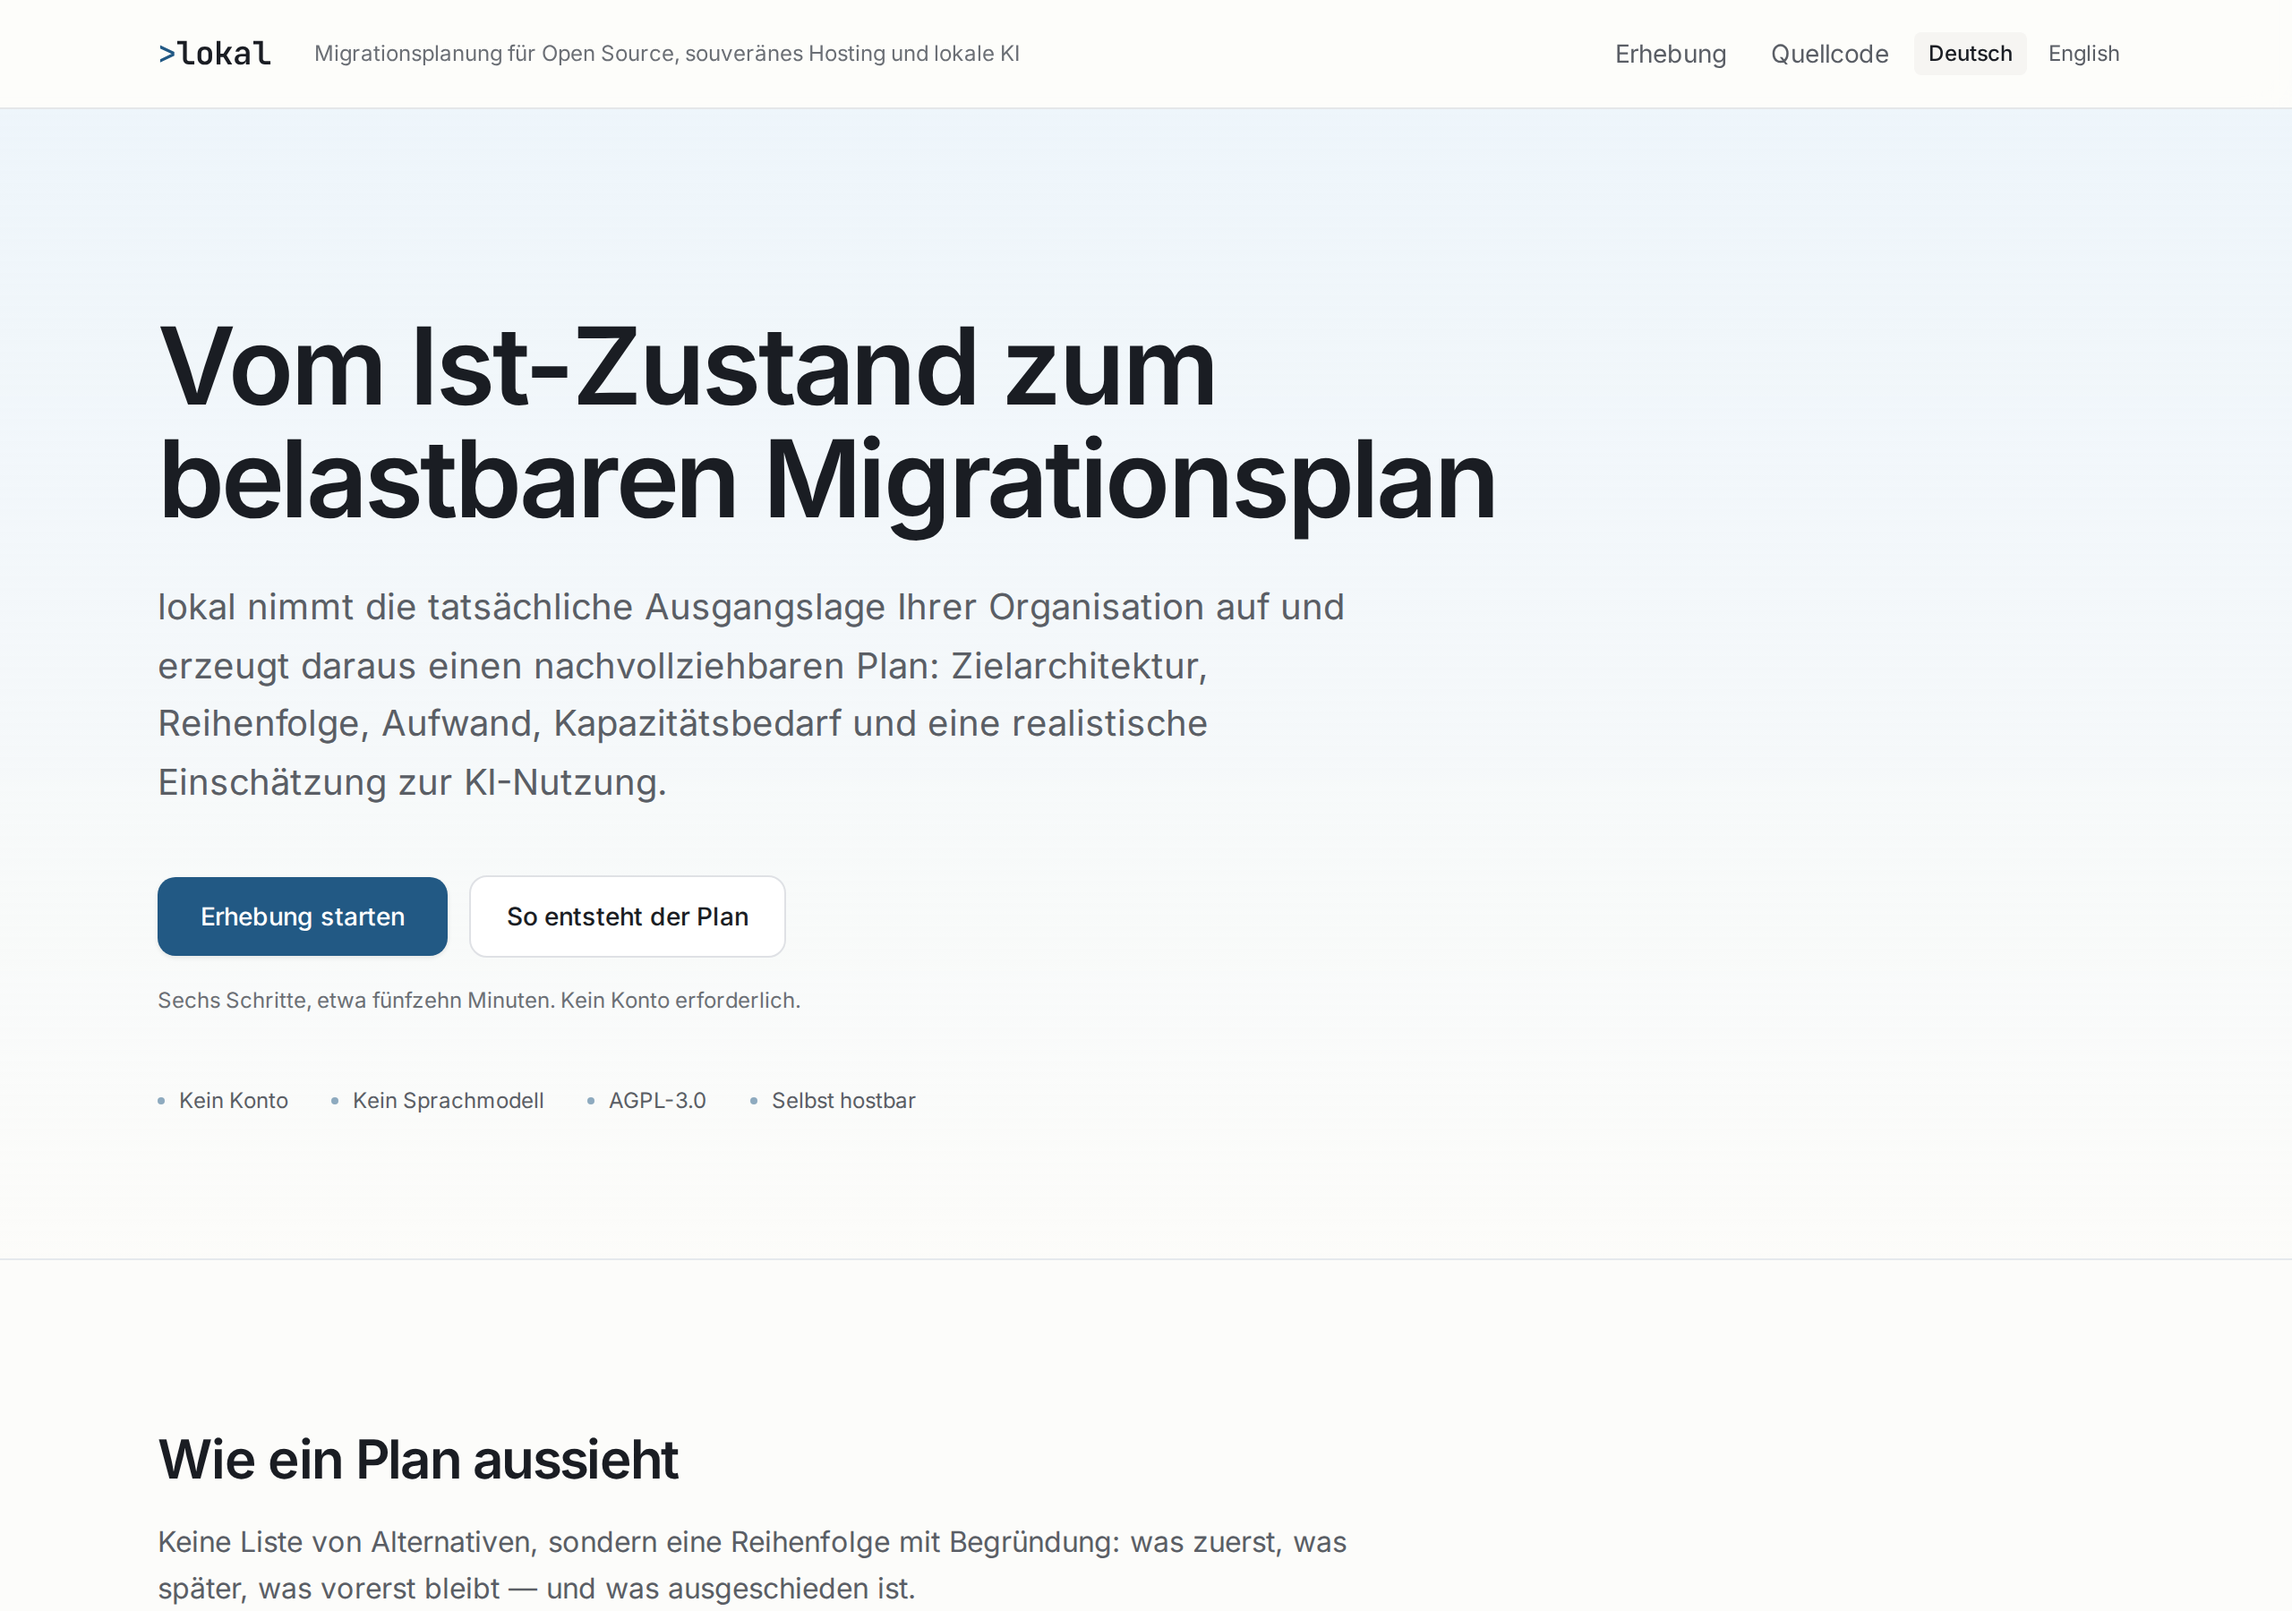
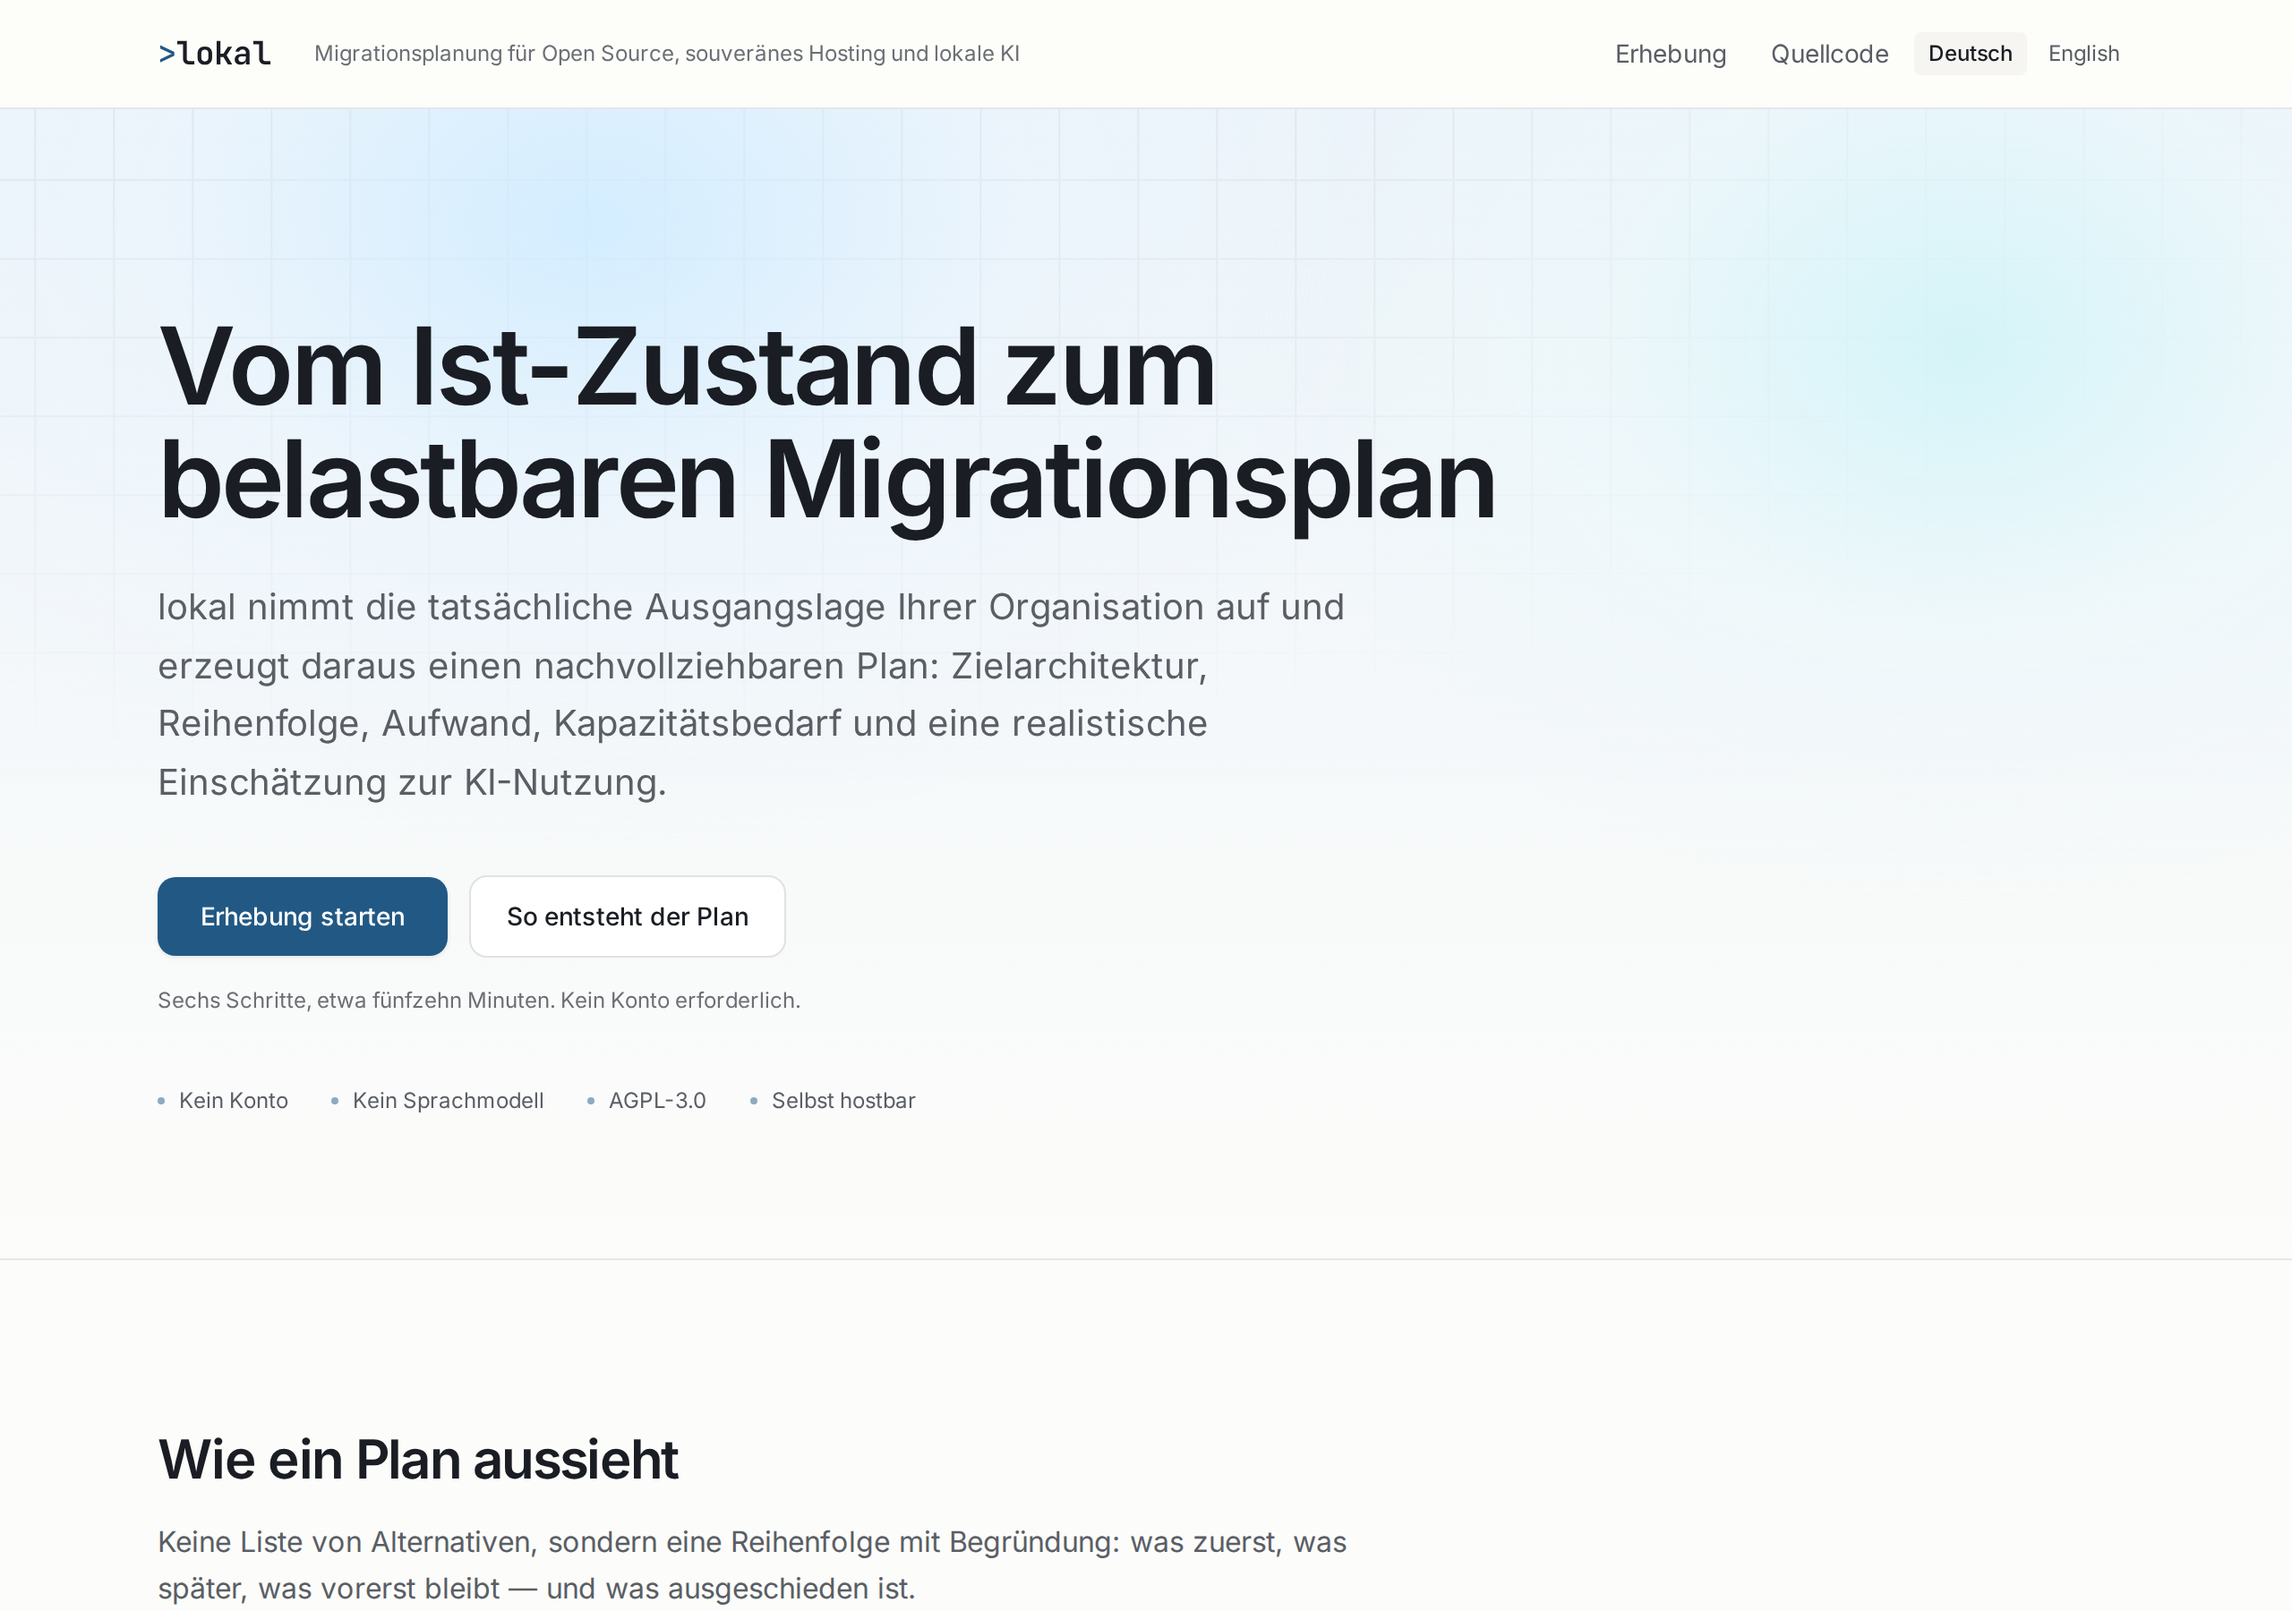
feat(landing): give the hero an ambient background field
A blueprint grid and two soft washes on four deliberately non-harmonic periods
(37s, 53s, 61s, 79s). Because they share no common cycle the composite never
visibly repeats, which is what lets the motion stay slow and faint and still
hold attention — the eye cannot find the loop to dismiss it.

Only transform, opacity and background-position are animated, all of which the
compositor handles without repainting. No filter: blur(), which is the obvious
way to soften these shapes and would repaint a very large area every frame —
the kind of cost that becomes visible jank on the ageing hardware a good part
of this audience is running.

Worst-case text contrast across the full cycle measured at 6.51:1 against a
4.5:1 requirement, sampled per frame rather than assumed. Under
prefers-reduced-motion the animations do not exist at all.

Fixes a latent trap in the accessibility suite that this uncovered: it snapped
animations with Animation.finish() before sampling colours, and that throws
InvalidStateError on an animation with no end. The first looping background
added to any page here would have failed the axe run rather than the page.
Infinite animations are now paused at a fixed time, which is the same
determinism the helper existed to provide.

Screenshots regenerated, with the loop pinned to one frame so re-running the
capture does not churn the binaries.

Claude-Session: https://claude.ai/code/session_01FBDxesQAi3bAzRhGe6Sye6

Changed region(s): [[0.2188, 0.0933, 0.3125, 0.1867], [0.8125, 0.1867, 0.875, 0.2489], [0.0938, 0.56, 0.125, 0.5911]]

diff --git a/src/app/globals.css b/src/app/globals.css
@@ -164,3 +164,133 @@ body {
   color: var(--color-terminal-prompt);
   user-select: none;
 }
+
+/* Hero background field.
+ *
+ * Four layers on deliberately non-harmonic periods (37s, 53s, 61s, 79s), so the
+ * composite has no common cycle and the eye never finds the loop. Each layer is
+ * barely there on its own; together they read as depth rather than as
+ * animation. That restraint is the requirement, not a limitation — this is a
+ * planning tool for public bodies, and a hero that visibly performs would
+ * undercut the argument the page is making.
+ *
+ * Only `transform`, `opacity` and `background-position` are animated, all of
+ * which the compositor can handle without re-laying-out or repainting. No
+ * `filter: blur()`: it is the obvious way to soften these shapes and it forces
+ * a repaint of a very large area every frame, which is exactly the kind of cost
+ * that turns into visible jank on the ageing hardware a lot of this audience
+ * runs. The gradients carry their own falloff instead.
+ *
+ * Entirely decorative: aria-hidden, no pointer events, behind the content. The
+ * prefers-reduced-motion rule above stops all of it.
+ */
+.hero-field {
+  position: absolute;
+  inset: 0;
+  overflow: hidden;
+  pointer-events: none;
+}
+
+/* Layer 1 — a blueprint grid, dissolved toward the edges so it never shows a
+ * hard boundary. It drifts exactly one cell per cycle, which makes the loop
+ * seamless: the frame at 100% is pixel-identical to the frame at 0%. */
+.hero-field::before {
+  content: "";
+  position: absolute;
+  inset: -10%;
+  background-image:
+    linear-gradient(to right, var(--color-line-strong) 1px, transparent 1px),
+    linear-gradient(to bottom, var(--color-line-strong) 1px, transparent 1px);
+  background-size: 44px 44px;
+  -webkit-mask-image: radial-gradient(110% 80% at 25% 0%, #000 0%, transparent 72%);
+  mask-image: radial-gradient(110% 80% at 25% 0%, #000 0%, transparent 72%);
+  animation:
+    hero-grid-drift 61s linear infinite,
+    hero-grid-breathe 37s ease-in-out infinite;
+}
+
+@keyframes hero-grid-drift {
+  from {
+    background-position:
+      0 0,
+      0 0;
+  }
+  to {
+    background-position:
+      44px 44px,
+      44px 44px;
+  }
+}
+
+@keyframes hero-grid-breathe {
+  0%,
+  100% {
+    opacity: 0.3;
+  }
+  50% {
+    opacity: 0.55;
+  }
+}
+
+/* Layers 2 and 3 — two soft washes drifting against each other. Kept high in
+ * lightness on purpose: the subheading sits on this in --color-muted, and a
+ * wash dark enough to be obvious is a wash dark enough to fail 4.5:1. */
+.hero-glow {
+  position: absolute;
+  border-radius: 9999px;
+  will-change: transform;
+}
+
+.hero-glow-a {
+  top: -18rem;
+  left: -14rem;
+  width: 56rem;
+  height: 40rem;
+  background: radial-gradient(
+    closest-side,
+    oklch(93% 0.045 245 / 0.9),
+    oklch(96% 0.02 245 / 0.35),
+    transparent
+  );
+  animation: hero-drift-a 53s ease-in-out infinite;
+}
+
+.hero-glow-b {
+  top: -12rem;
+  right: -16rem;
+  width: 46rem;
+  height: 36rem;
+  background: radial-gradient(
+    closest-side,
+    oklch(94% 0.04 205 / 0.8),
+    oklch(97% 0.02 205 / 0.3),
+    transparent
+  );
+  animation: hero-drift-b 79s ease-in-out infinite;
+}
+
+@keyframes hero-drift-a {
+  0%,
+  100% {
+    transform: translate3d(0, 0, 0) scale(1);
+  }
+  33% {
+    transform: translate3d(7rem, 2.5rem, 0) scale(1.09);
+  }
+  66% {
+    transform: translate3d(2rem, -3.5rem, 0) scale(0.95);
+  }
+}
+
+@keyframes hero-drift-b {
+  0%,
+  100% {
+    transform: translate3d(0, 0, 0) scale(1);
+  }
+  40% {
+    transform: translate3d(-6rem, 3rem, 0) scale(1.11);
+  }
+  72% {
+    transform: translate3d(-1.5rem, -2.5rem, 0) scale(0.93);
+  }
+}

diff --git a/tests/e2e/accessibility.spec.ts b/tests/e2e/accessibility.spec.ts
@@ -28,8 +28,20 @@ async function violations(page: Page): Promise<Violation[]> {
   // samples whatever colour it finds at that instant — mid-transition that is a
   // value no user ever sees, and the contrast check fails on it at random.
   // Snapping animations to their end state makes the measurement deterministic.
+  //
+  // The hero's ambient background loops forever, and an animation with no end
+  // has no end state to snap to: `finish()` throws InvalidStateError on one.
+  // Pausing it at a fixed time gives the same guarantee this helper exists for
+  // — every run samples the identical frame.
   await page.evaluate(() => {
-    for (const animation of document.getAnimations()) animation.finish();
+    for (const animation of document.getAnimations()) {
+      if (animation.effect?.getComputedTiming().iterations === Infinity) {
+        animation.pause();
+        animation.currentTime = 0;
+      } else {
+        animation.finish();
+      }
+    }
   });
 
   const results = await new AxeBuilder({ page }).withTags(TAGS).analyze();

diff --git a/src/app/[locale]/page.tsx b/src/app/[locale]/page.tsx
@@ -49,8 +49,15 @@ export default async function LandingPage(props: PageProps<"/[locale]">) {
   return (
     <>
       {/* Hero */}
-      <section className="from-brand-soft/60 border-line/60 border-b bg-gradient-to-b to-[var(--color-paper)]">
-        <div className="mx-auto max-w-6xl px-6 pt-20 pb-16 sm:pt-28 sm:pb-20">
+      <section className="from-brand-soft/60 border-line/60 relative isolate overflow-hidden border-b bg-gradient-to-b to-[var(--color-paper)]">
+        {/* Decorative only — see `.hero-field` in globals.css. Four layers on
+            non-harmonic periods, so the motion never visibly repeats. */}
+        <div className="hero-field" aria-hidden="true">
+          <span className="hero-glow hero-glow-a" />
+          <span className="hero-glow hero-glow-b" />
+        </div>
+
+        <div className="relative mx-auto max-w-6xl px-6 pt-20 pb-16 sm:pt-28 sm:pb-20">
           <div className="max-w-3xl">
             <h1 className="text-ink display text-4xl font-semibold sm:text-5xl lg:text-6xl">
               {t("heading")}

diff --git a/CHANGELOG.md b/CHANGELOG.md
@@ -96,6 +96,13 @@ Dates are ISO 8601.
   screen reader nor carried into the clipboard with a copied command.
 - A real site header and footer: sticky navigation, and a footer that names the
   licence, the source and the rulepack version behind the recommendations.
+- An ambient hero background: a blueprint grid and two soft washes on four
+  deliberately non-harmonic periods (37s, 53s, 61s, 79s), so the composite has
+  no common cycle and never visibly repeats. Only compositor-friendly properties
+  are animated — no `filter: blur()`, which would repaint a large area every
+  frame on hardware a good part of this audience is still running. Worst-case
+  text contrast across the whole cycle is 6.51:1 against a 4.5:1 requirement,
+  and `prefers-reduced-motion` removes the animations entirely.
 
 ### Fixed (phase 5.5)
 
@@ -106,6 +113,11 @@ Dates are ISO 8601.
   neutralised for paper.
 - Terminal blocks invert to the ink-safe palette when printed, rather than
   putting a full-bleed black rectangle on the page.
+- The accessibility suite snapped animations with `Animation.finish()` before
+  sampling colours, which throws `InvalidStateError` on an animation that never
+  ends — so the first looping background on any page would have failed the axe
+  run rather than the page. Infinite animations are now paused at a fixed time,
+  which is the same determinism guarantee the helper existed for.
 
 ### Added (Docker)
 

diff --git a/plans/phase-05-5-design-pass.md b/plans/phase-05-5-design-pass.md
@@ -112,6 +112,14 @@ deliberately, and the closing call to action reads "Zur Erhebung" so it cannot
 collide with `getByRole("link", { name: "Erhebung starten" })` under Playwright's
 substring matching.
 
+A fourth came out of the follow-up request for hero motion: **the axe helper
+could not survive a looping animation.** It snapped every animation with
+`Animation.finish()`, which throws `InvalidStateError` on one with no end — so
+the first ambient background added to any page in this project would have failed
+the accessibility run rather than the page. Infinite animations are now paused at
+a fixed time instead, which is the same determinism the helper existed to
+provide. Verified by confirming the old helper does throw on the new hero.
+
 The print check was worth running by hand. Under print media both chrome
 elements resolve to `display: none` with zero height, and no navigation text
 reaches the rendered page — which is exactly the regression the `data-site-chrome`
